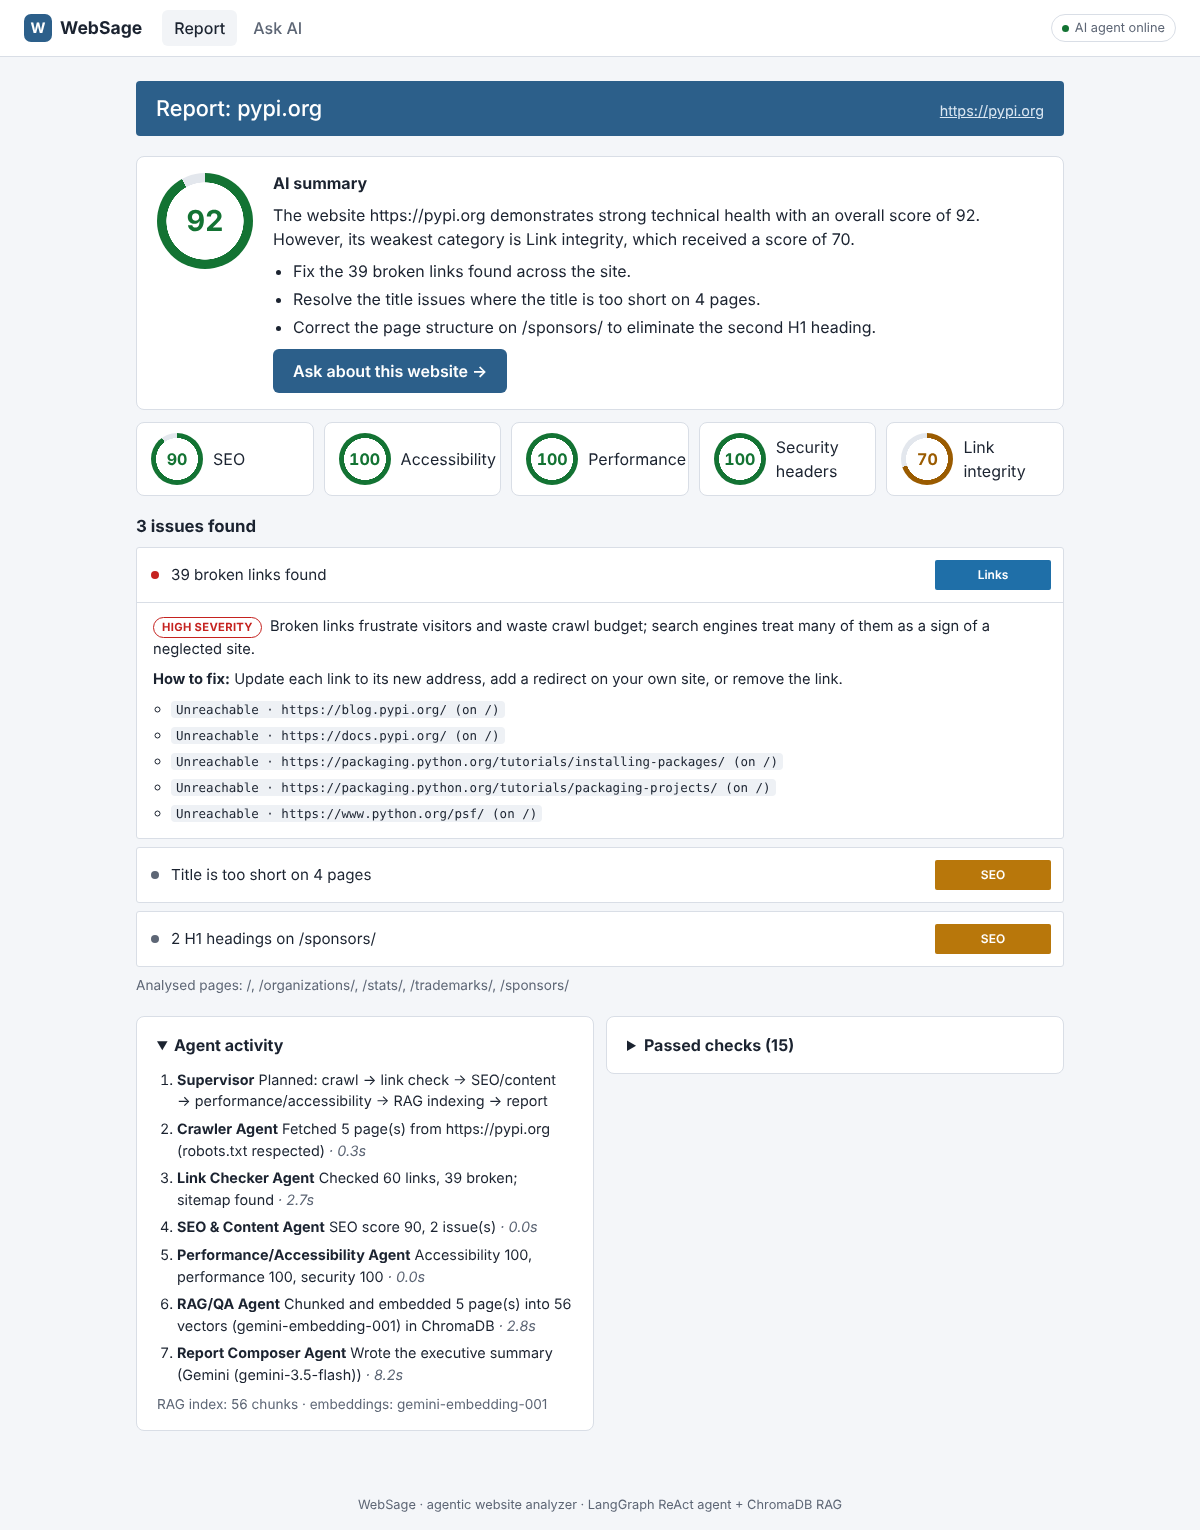
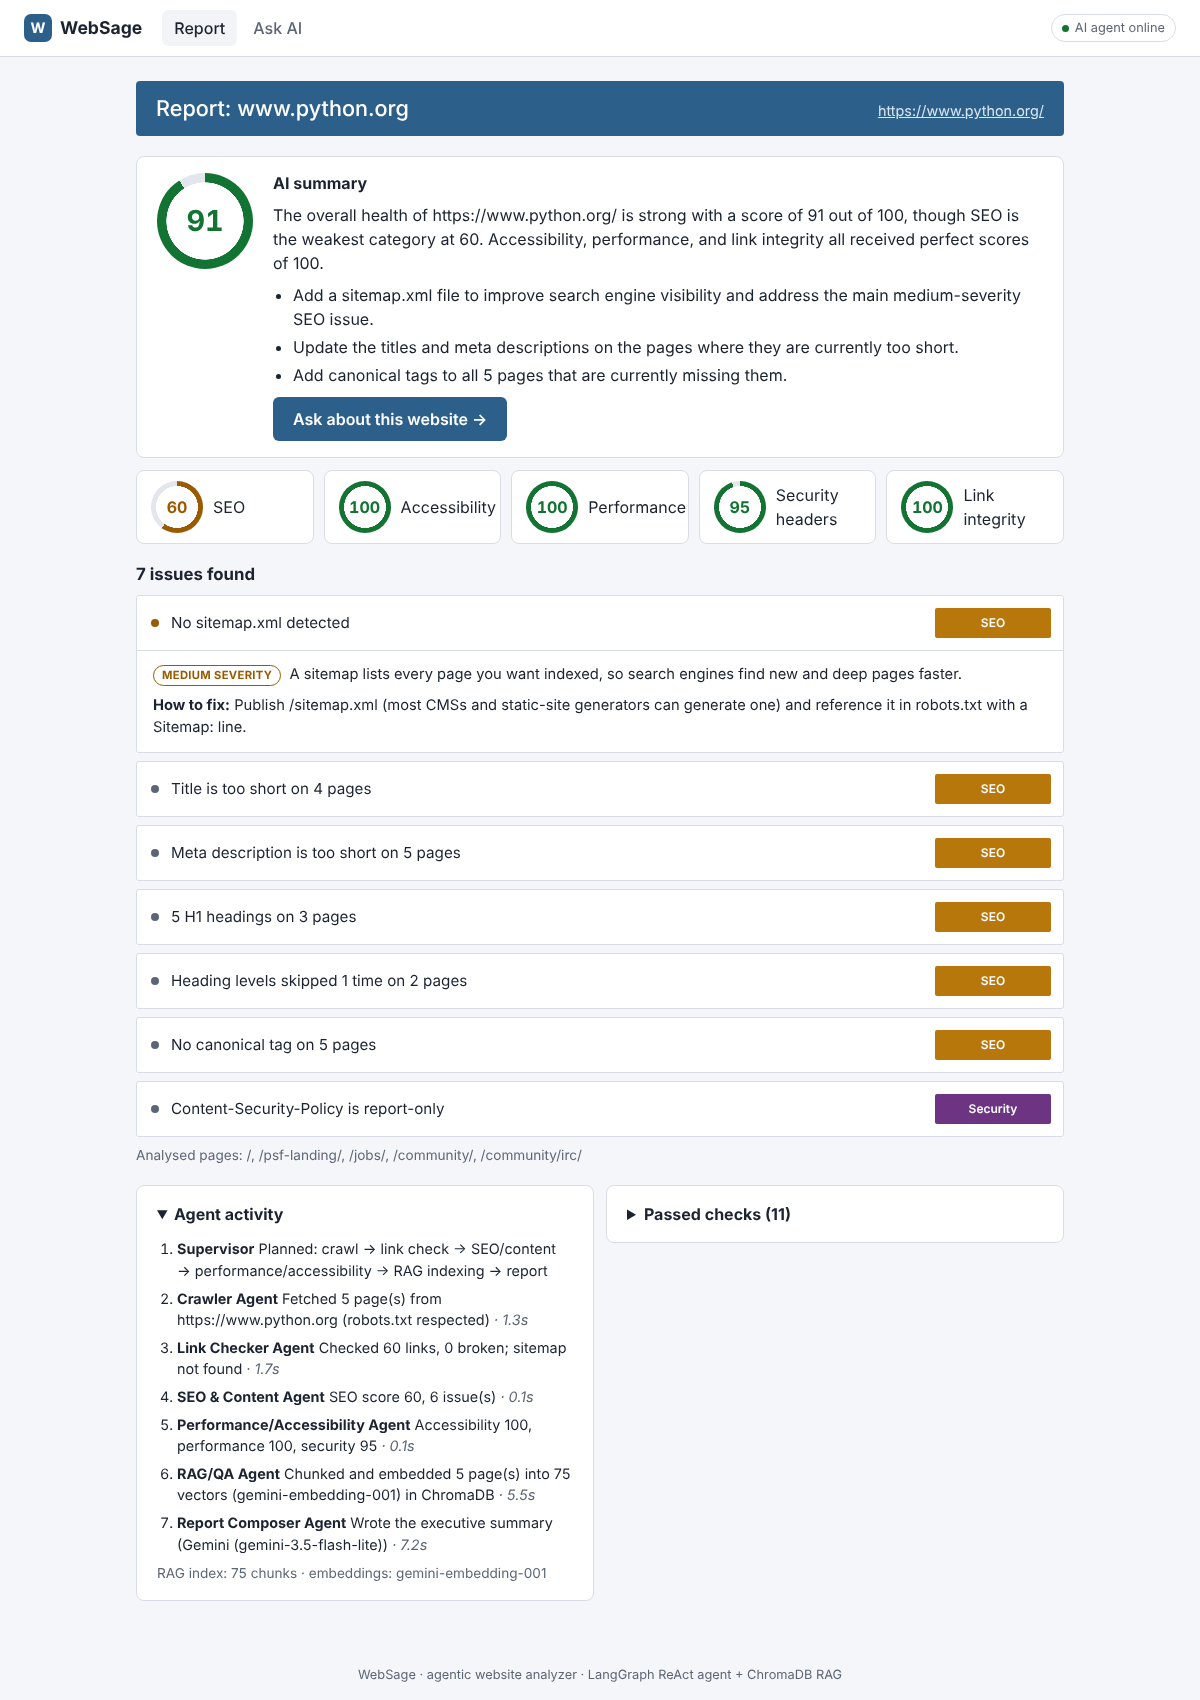
README: feature the live demo link and use live screenshots
Claude-Session: https://claude.ai/code/session_019sujjaFvvfKKohsj1fV25N

diff --git a/README.md b/README.md
@@ -1,5 +1,7 @@
 # WebSage – Agentic AI Website Analyzer
 
+[![Live demo](https://img.shields.io/badge/Live%20demo-website--analyzer--y8e1.onrender.com-2c5f8a?style=for-the-badge)](https://website-analyzer-y8e1.onrender.com)
+
 ![Python](https://img.shields.io/badge/Python-3.11-blue) ![FastAPI](https://img.shields.io/badge/FastAPI-API-009688) ![LangGraph](https://img.shields.io/badge/LangGraph-ReAct%20agent-1c3c3c) ![ChromaDB](https://img.shields.io/badge/ChromaDB-vector%20store-orange) ![Gemini](https://img.shields.io/badge/Google-Gemini-4285F4) ![React](https://img.shields.io/badge/React-19-61dafb)
 
 WebSage is an agentic AI website analyzer. Enter a URL and a team of agents crawls the site, runs SEO,
@@ -7,13 +9,17 @@ accessibility, performance, security-header and link-integrity checks, and write
 Then you can ask follow-up questions in a chat. A ReAct agent decides which tools to call, and its answers
 are grounded in the site's own content through Retrieval-Augmented Generation (RAG).
 
-**Live demo: https://website-analyzer-y8e1.onrender.com**
+### 🔗 Live demo: [website-analyzer-y8e1.onrender.com](https://website-analyzer-y8e1.onrender.com)
 
 > Hosted on Render's free plan, so the first visit after 15 idle minutes can take about a minute while the server wakes up.
+
+![Home screen](docs/screenshots/home.png)
 
 | Analysis report | RAG follow-up Q&A |
 |---|---|
 | ![Report screen](docs/screenshots/report.png) | ![Chat screen](docs/screenshots/chat.png) |
+
+**Try it:** open the [live demo](https://website-analyzer-y8e1.onrender.com), enter a URL such as `python.org`, wait for the report, then click **Ask about this website** and ask "What should I fix first?".
 
 ## Features
 
@@ -106,6 +112,10 @@ docker run -p 7860:7860 -e GOOGLE_API_KEY=your-key websage   # open http://local
 Run the tests from the repository root with `pytest tests`.
 
 ## Deploy
+
+The project is deployed on Render at **https://website-analyzer-y8e1.onrender.com** (Docker web service, free plan, with `GOOGLE_API_KEY` set under Environment).
+
+To deploy your own copy:
 
 [![Deploy to Render](https://render.com/images/deploy-to-render-button.svg)](https://render.com/deploy?repo=https://github.com/JasNahar/website-analyzer-)
 
